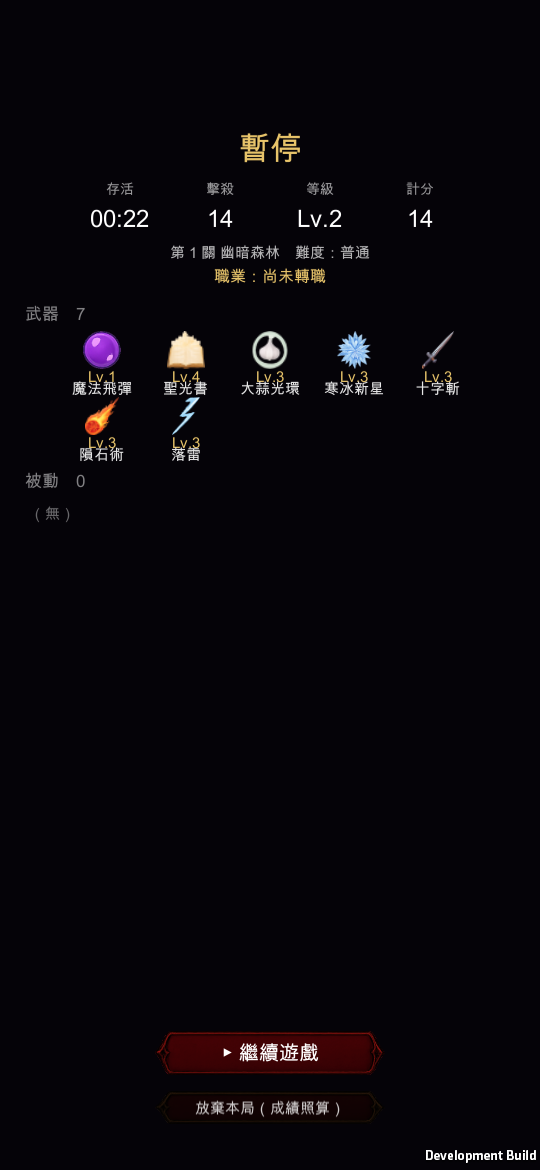
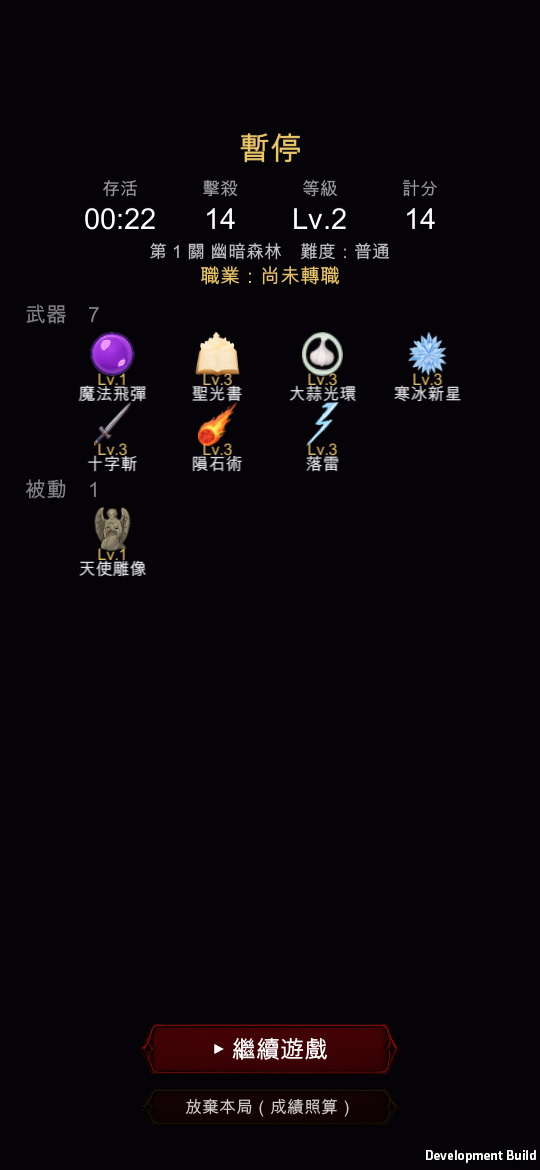
首頁/選角/暫停字級放大預覽

diff --git a/hud-fix.html b/hud-fix.html
@@ -1,4 +1,4 @@
-<title>HUD 字級與靈動島</title>
+<title>UI 字級全面放大</title>
 <style>
 :root{
   --ground:#EDE9EC; --card:#FFFFFF; --line:#D8D0D6; --line-soft:#EAE4E8;
@@ -51,6 +51,7 @@ table{border-collapse:collapse;width:100%;min-width:520px;font-size:13.5px;font-
 th,td{text-align:left;padding:9px 12px;border-bottom:1px solid var(--line-soft)}
 thead th{font-size:11px;letter-spacing:.08em;text-transform:uppercase;color:var(--ink-soft);font-weight:600;background:var(--ground)}
 tbody tr:last-child td{border-bottom:none}
+tbody th{font-weight:600;font-size:12px;color:var(--gold);background:var(--ground)}
 .note{border-left:2px solid var(--gold);padding:10px 0 10px 14px;font-size:13.5px;display:flex;flex-direction:column;gap:10px;color:var(--ink-soft)}
 .note h3{margin:0;font-size:15px;font-weight:600;color:var(--ink)}
 .note ul,.note ol{margin:0;padding-left:20px;display:flex;flex-direction:column;gap:6px}
@@ -60,70 +61,91 @@ code{font-family:ui-monospace,Menlo,monospace;font-size:12px;color:var(--ink)}
 <div class="wrap">
   <div class="masthead">
     <div class="eyebrow">Vampire Revenge · UI</div>
-    <h1>字再放大一階，暫停面板也讓開靈動島</h1>
-    <p class="lede">先講一件重要的事：你上次測的那個版本，其實根本沒有包含前一輪的 HUD 修正——Xcode 專案是更早的 commit 匯出的。所以「文字還是太小」有一部分是那個原因。這一輪除了再放大一階，也把真正沒修到的地方修掉，而且這次是有實際畫面可以看的。</p>
+    <h1>首頁、選角、暫停面板全部放大</h1>
+    <p class="lede">你點名的三個畫面都調過了，而且四張畫面都是在模擬 iPhone 靈動島的情況下實際跑出來拍的。選角那一頁順便解決了兩個「字放大之後才看得出來」的問題。</p>
   </div>
 
-  <h2 class="sec">這次的畫面</h2>
+  <h2 class="sec">四張畫面</h2>
 
   <article class="card">
-    <div class="card-head"><h3>模擬 iPhone 靈動島拍的</h3><span class="tag">已驗證</span></div>
+    <div class="card-head"><h3>選集首頁 ／ 選角</h3><span class="tag">已驗證</span></div>
     <div class="pair">
-      <figure><img alt="遊戲中 HUD" src="hud/hud_play.png"><figcaption>遊戲中：上緣保留區已讓開</figcaption></figure>
-      <figure><img alt="暫停面板" src="hud/hud_pause.png"><figcaption>暫停：標題不再被切到</figcaption></figure>
+      <figure><img alt="選集首頁" src="hud/menu_hub.png"><figcaption>首頁：標題 54→72</figcaption></figure>
+      <figure><img alt="選角畫面" src="hud/menu_char.png"><figcaption>選角：改 2×2，補上立繪</figcaption></figure>
     </div>
-    <dl class="meta">
-      <dt>怎麼拍的</dt><dd>Mac 上跑真的遊戲，用 540×1170 的視窗，並且照 iPhone 14 Pro 的比例（上緣內縮 6.92%）模擬靈動島＝81px。截圖裡最上面的時間落在 y≈55、暫停標題落在 y≈132，都在那條線下面</dd>
-      <dt>暫停怎麼按的</dt><dd>走跟你手指按下去同一條程式路徑，不是另外開一個捷徑直接把面板叫出來——不然驗到的就不是你會遇到的狀態</dd>
-    </dl>
   </article>
 
-  <h2 class="sec">真正沒修到的是暫停「面板」</h2>
+  <article class="card">
+    <div class="card-head"><h3>遊戲中 ／ 暫停面板</h3><span class="tag">已驗證</span></div>
+    <div class="pair">
+      <figure><img alt="遊戲中 HUD" src="hud/hud_play.png"><figcaption>遊戲中</figcaption></figure>
+      <figure><img alt="暫停面板" src="hud/hud_pause.png"><figcaption>暫停：武器格改四欄</figcaption></figure>
+    </div>
+  </article>
+
+  <h2 class="sec">最小的字有多小</h2>
 
   <div class="note">
-    <p>上一輪我只讓右上角那顆暫停<strong>鈕</strong>吃到安全區位移，面板自己的內容沒有。面板標題是寫死「距離畫面頂端 90」，打開來就正好在靈動島底下。你回報的「按下暫停一樣靈動島切到字」就是這個，跟字級無關。</p>
-    <p>現在面板裡的標題、四格數值、關卡/職業那兩行、下面的武器與被動區塊，全部一起吃同一個位移。</p>
+    <p>選角卡的說明文字原本是 20 級，換算到 iPhone 14 Pro 上實際是 <strong>7.3pt</strong>——系統內文標準是 17pt，iOS 介面裡最小的輔助文字也有 11pt。那確實不是「偏小」，是根本讀不了。現在是 30 級＝10.9pt，受限於卡片寬度只能到這裡，但配合下面的版面改動已經好讀很多。</p>
   </div>
 
   <h2 class="sec">字級對照</h2>
   <div class="tbl-scroll"><table>
-    <thead><tr><th>項目</th><th>改前</th><th>改後</th><th>iPhone 14 Pro 實際大小</th></tr></thead>
+    <thead><tr><th>項目</th><th>改前</th><th>改後</th><th>iPhone 上實際大小</th></tr></thead>
     <tbody>
-      <tr><td>時間</td><td>52</td><td>64</td><td>18.9pt → 23.3pt</td></tr>
-      <tr><td>關卡名</td><td>32</td><td>42</td><td>11.6pt → 15.3pt</td></tr>
-      <tr><td>等級／擊殺</td><td>38</td><td>50</td><td>13.8pt → 18.2pt</td></tr>
-      <tr><td>機制提示</td><td>34</td><td>44</td><td>12.4pt → 16.0pt</td></tr>
-      <tr><td>轉職任務</td><td>30</td><td>36</td><td>10.9pt → 13.1pt</td></tr>
-      <tr><td>魔王名</td><td>30</td><td>40</td><td>10.9pt → 14.6pt</td></tr>
-      <tr><td>暫停標題</td><td>52</td><td>64</td><td>18.9pt → 23.3pt</td></tr>
-      <tr><td>暫停面板數值</td><td>40</td><td>48</td><td>14.6pt → 17.5pt</td></tr>
-      <tr><td>武器／被動名稱</td><td>19</td><td>30</td><td>6.9pt → 10.9pt</td></tr>
+      <tr><th colspan="4">選集首頁</th></tr>
+      <tr><td>主標題</td><td>54</td><td>72</td><td>19.7pt → 26.2pt</td></tr>
+      <tr><td>標語</td><td>26</td><td>36</td><td>9.5pt → 13.1pt</td></tr>
+      <tr><td>卡片標題</td><td>40</td><td>52</td><td>14.6pt → 18.9pt</td></tr>
+      <tr><td>卡片說明</td><td>23</td><td>32</td><td>8.4pt → 11.6pt</td></tr>
+      <tr><td>開始按鈕</td><td>28</td><td>40</td><td>10.2pt → 14.6pt</td></tr>
+      <tr><th colspan="4">選角</th></tr>
+      <tr><td>標題</td><td>56</td><td>72</td><td>20.4pt → 26.2pt</td></tr>
+      <tr><td>選擇角色／難度</td><td>30</td><td>44</td><td>10.9pt → 16.0pt</td></tr>
+      <tr><td>角色名</td><td>26</td><td>40</td><td>9.5pt → 14.6pt</td></tr>
+      <tr><td>角色說明</td><td>20</td><td>30</td><td>7.3pt → 10.9pt</td></tr>
+      <tr><td>難度名</td><td>30</td><td>42</td><td>10.9pt → 15.3pt</td></tr>
+      <tr><td>開始遊戲</td><td>34</td><td>46</td><td>12.4pt → 16.7pt</td></tr>
+      <tr><th colspan="4">暫停面板</th></tr>
+      <tr><td>四格數值</td><td>48</td><td>58</td><td>17.5pt → 21.1pt</td></tr>
+      <tr><td>格子標籤</td><td>28</td><td>36</td><td>10.2pt → 13.1pt</td></tr>
+      <tr><td>職業</td><td>32</td><td>40</td><td>11.6pt → 14.6pt</td></tr>
+      <tr><td>區塊標題</td><td>34</td><td>42</td><td>12.4pt → 15.3pt</td></tr>
+      <tr><td>武器名稱</td><td>30</td><td>34</td><td>10.9pt → 12.4pt</td></tr>
+      <tr><td>繼續遊戲</td><td>40</td><td>48</td><td>14.6pt → 17.5pt</td></tr>
     </tbody>
   </table></div>
-  <p class="lede">（左邊那兩欄是遊戲內部的單位，換算成 iPhone 上實際看到的大小才是右邊那欄。系統內文的標準大小是 17pt，可以拿來比對。）</p>
 
-  <h2 class="sec">順手修掉的三個問題</h2>
+  <h2 class="sec">光放大字級不夠，版面也得改</h2>
 
   <div class="note">
     <ol>
-      <li><strong>暫停面板的標題本來是空白的。</strong>標題寫死了 ⏸ 這個符號，但遊戲用的內建字型沒有這個字，畫出來就是空的。諷刺的是同一個檔案上面的註解就寫著「不要用 ⏸，用文字」，那是之前做暫停鈕時踩過的坑，我自己在標題又踩了一次。現在是純文字「暫停」。</li>
-      <li><strong>面板底色不夠黑，底下的 HUD 會透出來</strong>，暫停時兩層字疊在一起（上一版截圖看得很明顯）。暫停畫面本來就是要好好看配裝的，底下不需要留任何東西，改成完全不透明。</li>
-      <li><strong>轉職任務那行字放大後右邊被切掉</strong>——「元素使 8/1」直接斷在畫面外。這是我這次放大字級造成的，第一輪截圖就抓到了。改成排不下會折行，不會有看不到的字。</li>
+      <li><strong>四張角色卡原本擠在同一行</strong>，每張只有 250 寬（畫面總寬 1080），字級再放大就直接塞不下。改成 <strong>2×2</strong>，每張加寬到 500。</li>
+      <li><strong>暫停面板的武器格原本一列五格</strong>，每格 168 寬，放大後的名稱（像「大蒜光環」）會超出格子。改成一列四格、每格 210。</li>
     </ol>
   </div>
 
-  <h2 class="sec">另外修掉一個讓 Mac 建置失敗的舊問題</h2>
+  <h2 class="sec">兩個順帶修掉的問題</h2>
 
   <div class="note">
-    <p>這一輪一開始建置直接失敗（36 個 error）。原因跟畫面無關：驗證版才存在的那些除錯欄位被引擎當成「需要存檔的欄位」，編輯器跟遊戲兩邊對不起來就判定建置失敗。這些欄位都是跑的時候才塞值進去的，全部標成不需要存檔就解決了。</p>
-    <p>順帶一提，先前 Mac 端一直跑不起來（程式卡在系統的事件迴圈、一幀都不畫）現在也正常了——所以這次才有真的畫面可以給你看，不是只有「編譯過了」。</p>
+    <ol>
+      <li><strong>首頁與選角畫面從來沒有讓開靈動島。</strong>標題掛在距頂 100~150，而靈動島換算下來佔 162——也就是整條壓在標題上。原因是安全區的換算在 HUD 跟暫停面板各寫了一份，新畫面就漏掉了；現在收成一份共用的，之後不會再有畫面漏掉。</li>
+      <li><strong>卡片上的 emoji 一直都是空白。</strong>🧛🧟 和角色圖示都畫不出來，因為介面用的字型沒有 emoji 字符。角色卡改用該角色的<strong>手繪立繪</strong>（素材本來就有，就是遊戲裡那個角色）；首頁卡片則把 emoji 拿掉、標題往左移，不留那塊空白。</li>
+    </ol>
+  </div>
+
+  <div class="note">
+    <h3>驗證方式</h3>
+    <p>新增了「只拍選單」的跑法：拍首頁 → 走跟手指點卡片同一條程式路徑進選角 → 拍選角。過程中抓到一個會讓驗證失效的問題——模擬靈動島的那行設定原本放在「開局」裡面，只看選單的驗證根本沒吃到，第一版首頁截圖<em>看起來</em>有讓開、其實位移是 0。移到最前面之後重拍，才是上面這幾張。</p>
+  </div>
+
+  <div class="note">
+    <h3>還沒動的畫面</h3>
+    <p>升級選擇、神秘商人、轉職、結算這幾個面板也有同樣的問題（最小的字在 20~24 級之間）。你點名的是三個畫面，我就先做這三個——要一起放大跟我說一聲，同一套做法直接套過去。</p>
   </div>
 
   <div class="note">
     <h3>你要做的事</h3>
-    <ul>
-      <li>iOS 專案我正在重新匯出（這次會確實包含上面所有改動）。匯出完成後在 Xcode 重新 build 到手機就會看到。</li>
-      <li>看完之後如果覺得<strong>還是偏小</strong>，直接跟我說哪一行——現在有 <code>VR_ONLY=hud</code> 這條驗證路徑，調完可以馬上拍給你看，不用再靠猜的。</li>
-    </ul>
+    <p>iOS 專案已重新匯出，在 Xcode 重新 build 到手機就會看到。簽章那件事上一輪已經修好，這次不用再設定。</p>
   </div>
 </div>
